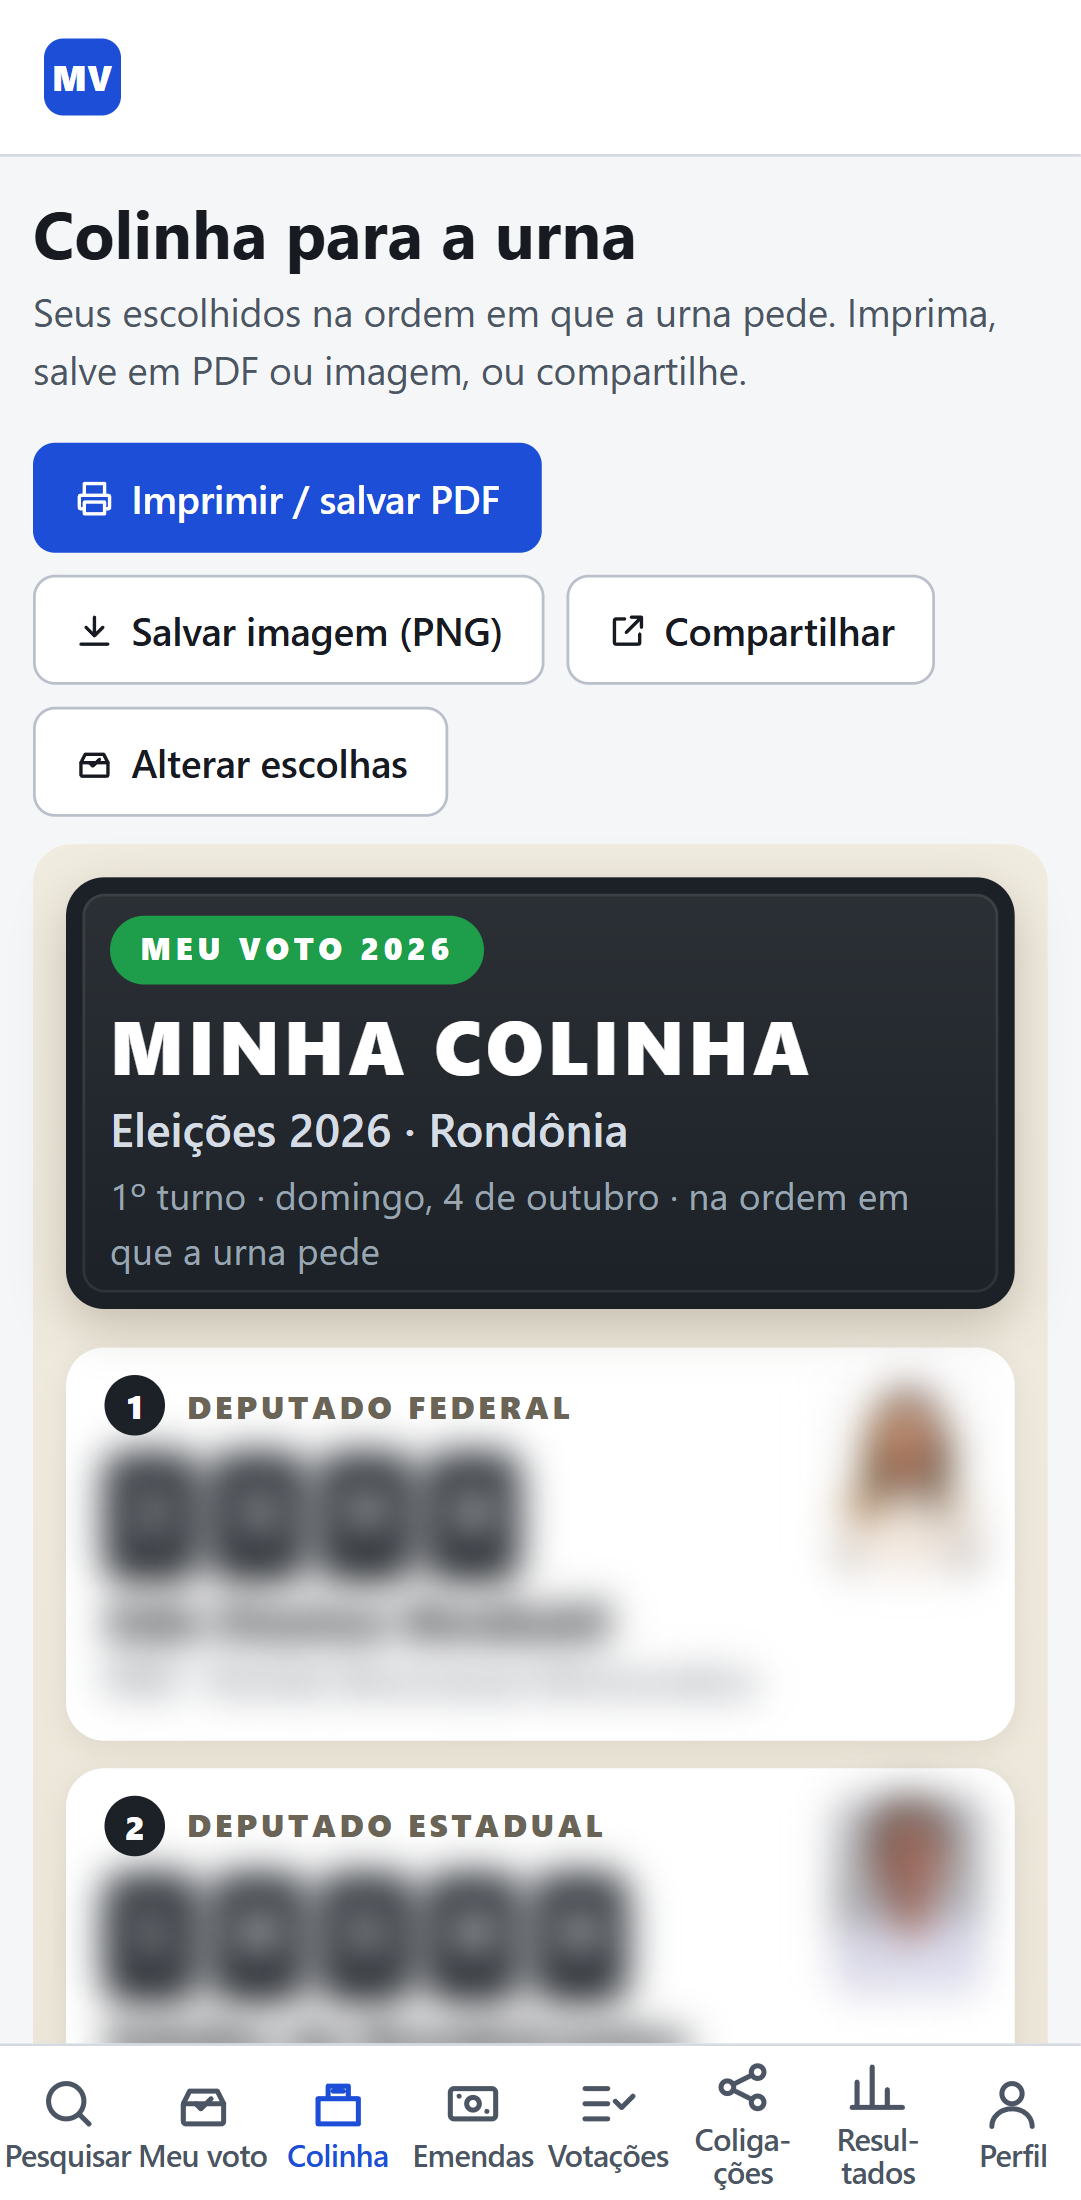
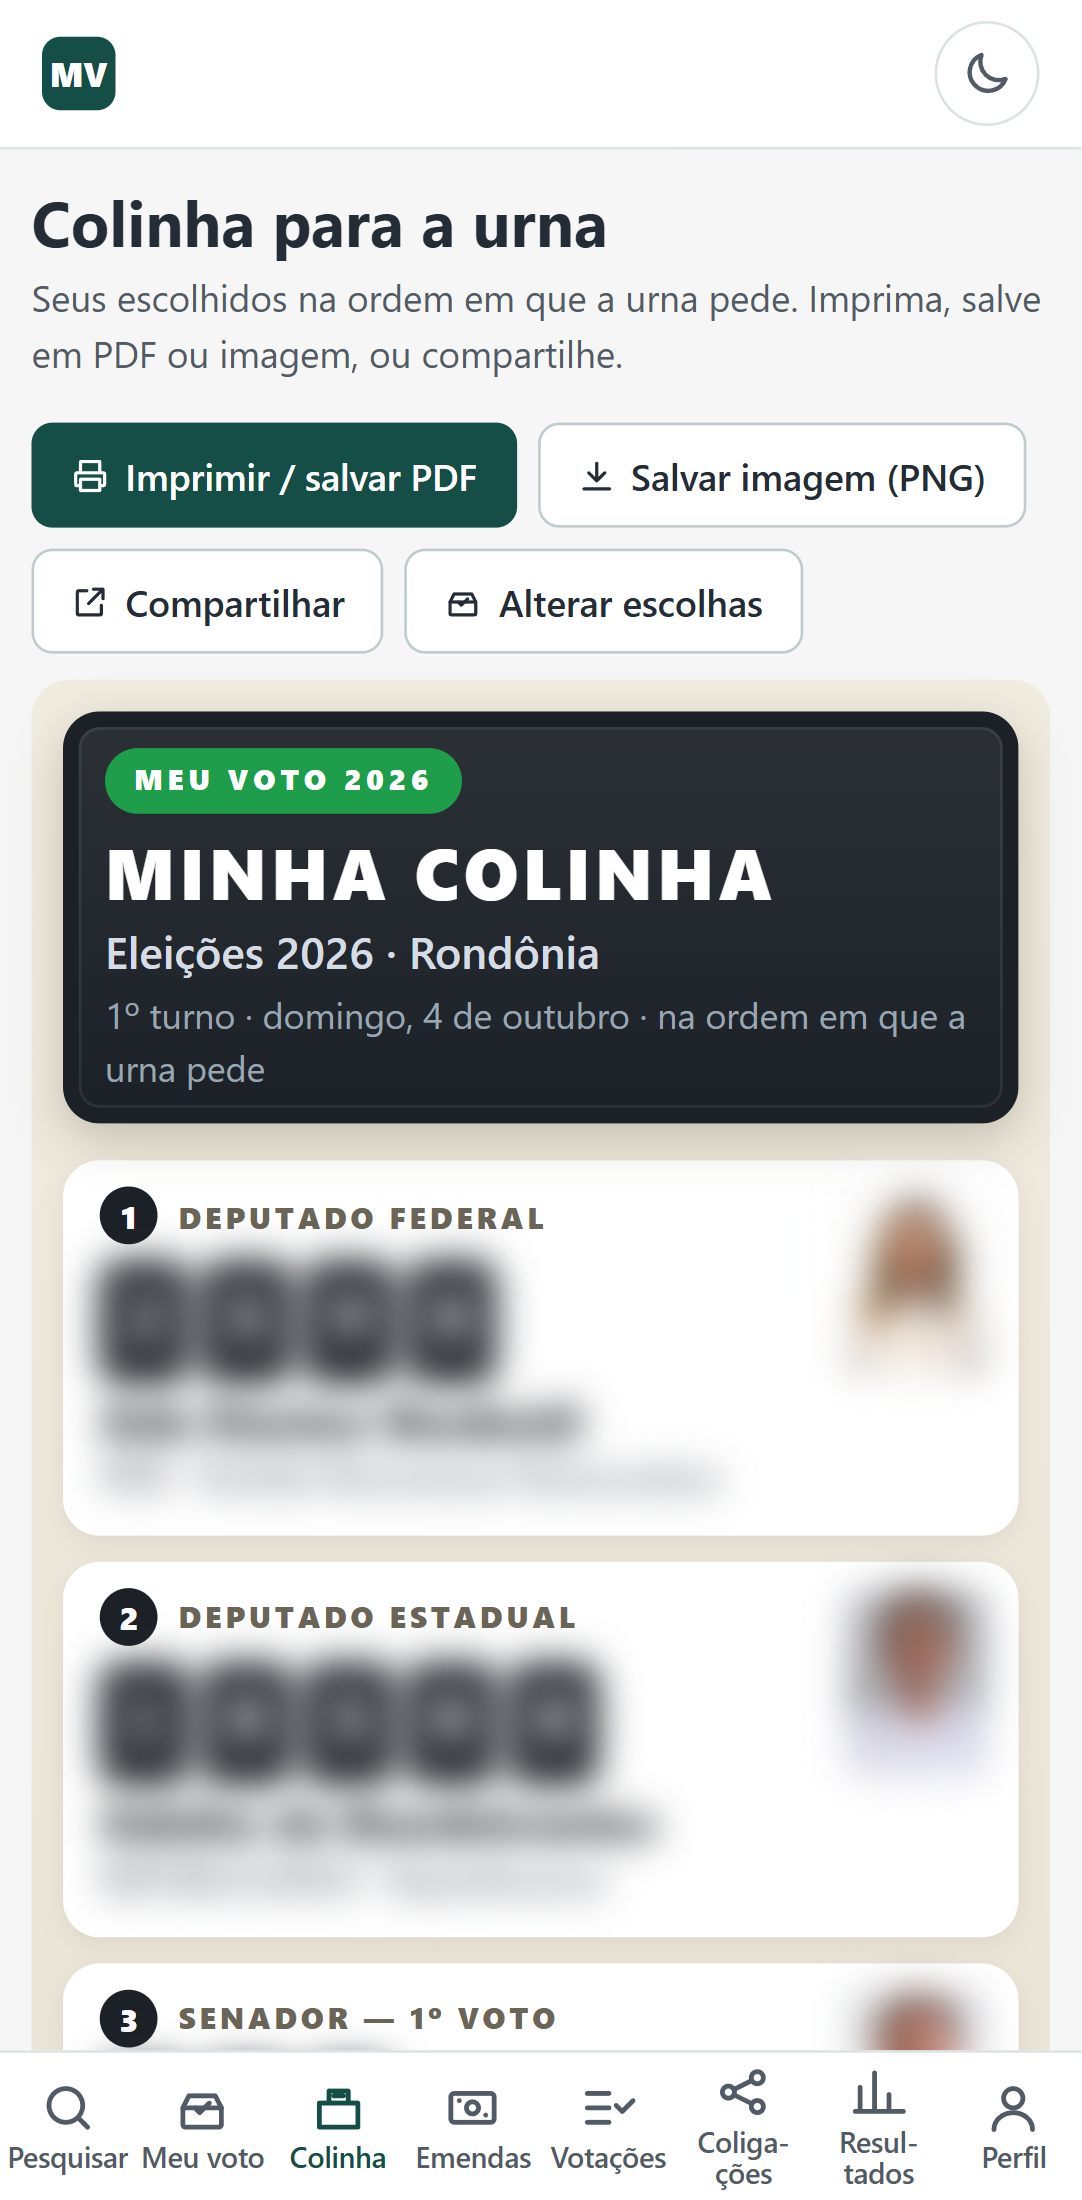
docs(readme): refaz as capturas com a paleta nova e o botão de tema

diff --git a/README.md b/README.md
@@ -93,8 +93,9 @@ apenas Rondônia.
 | ![Resultados: governador de RO, 1º colocado em destaque e demais em barras](docs/img/resultados-corrida.png) | ![Resultados: mapa de RO com o mais votado em cada município, tema escuro](docs/img/resultados-mapa.png) |
 | **Resultados** — cargos majoritários: 1º colocado em destaque e barras na cor do partido (tema claro). | **Resultados** — mapa do mais votado em cada cidade; clique abre o candidato (tema escuro). |
 
-Imagens geradas com os dados oficiais de setembro de 2026 e o Perfil em Ariquemes/RO. Na Emendas e na
-Colinha, nomes, fotos e números de candidatos foram borrados de propósito: as capturas ilustram o
+Imagens geradas com os dados oficiais de outubro de 2026 (resultados do 1º turno) e o Perfil em Ariquemes/RO,
+no tema claro (o mapa, no escuro). Quando um candidato aparece sozinho em destaque (Emendas, Colinha, celular,
+consulta e 1º colocado nos Resultados), nome, foto e número foram borrados de propósito: as capturas ilustram o
 funcionamento do sistema e não indicam voto em ninguém.
 
 ## Início rápido
